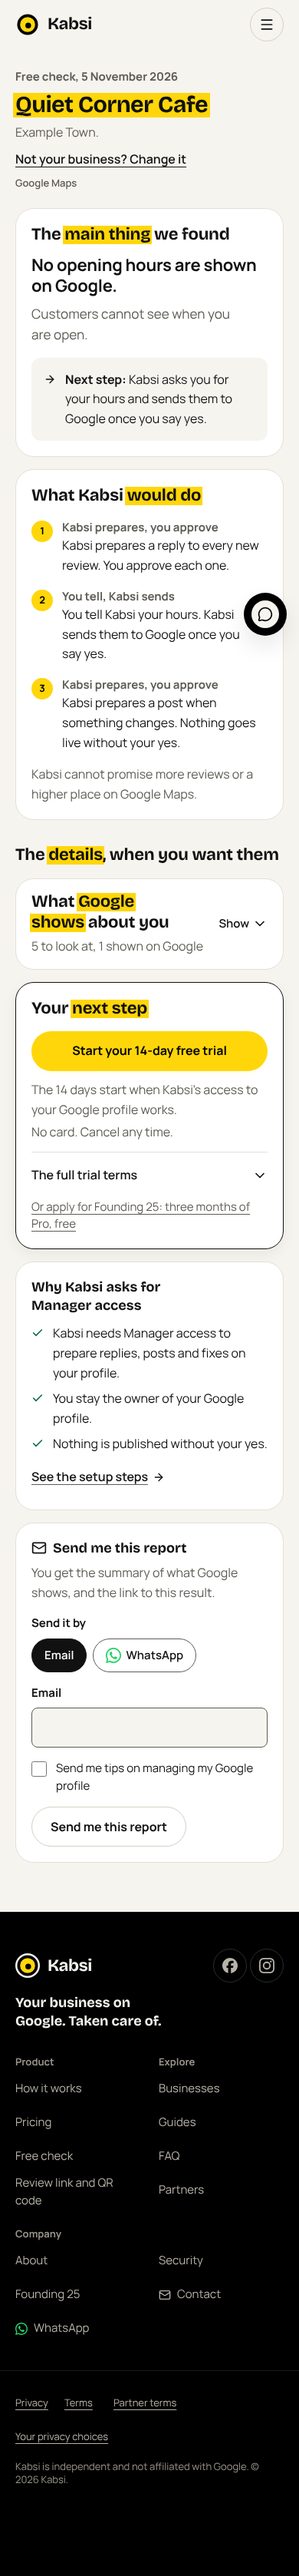
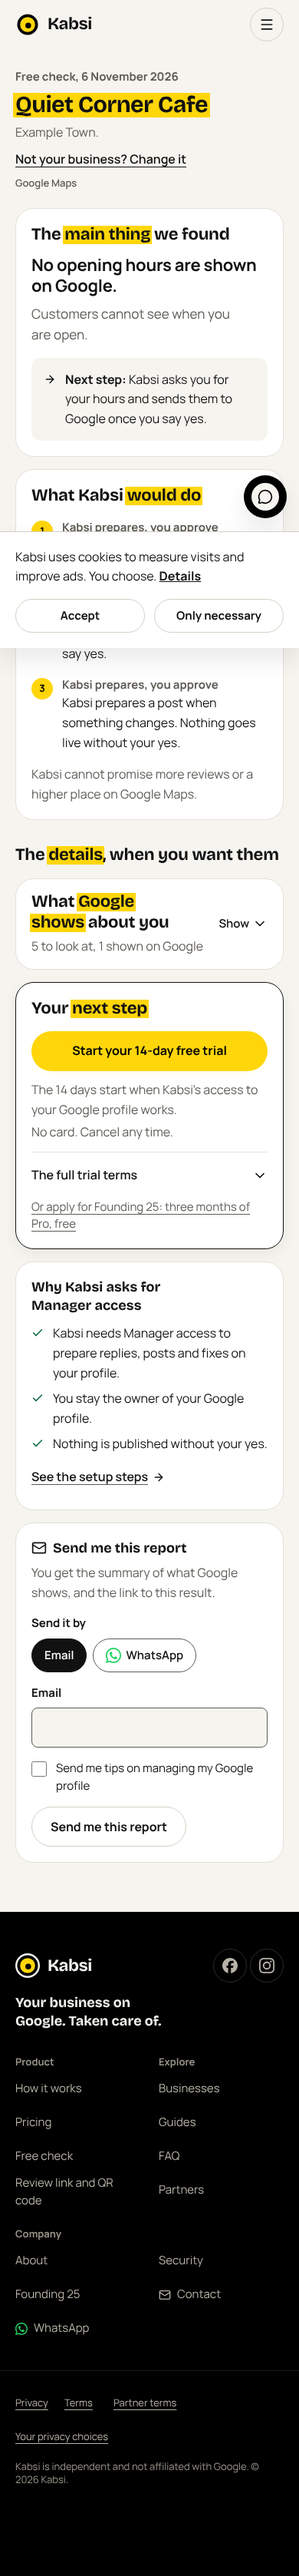
Speed 2 part A: the route signs in as its own Postgres role (suggest_route, runs suggest_take only) instead of an anon-callable function; narrower gitleaks match
rls_functions.sql holds that anon runs no SECURITY DEFINER function in public, and Sec 1 holds that no service key is on
the website's server; a login role that can run one function meets both.

Claude-Session: https://claude.ai/code/session_01WpE3ai1j4jdXti8Rm15RSC

Changed region(s): [[0.0923, 0.186, 0.9538, 0.248], [0.0308, 0.217, 0.0615, 0.248]]

diff --git a/src/server/suggest-deps.ts b/src/server/suggest-deps.ts
@@ -1,11 +1,13 @@
 // The production wiring of POST /api/suggest (src/server/suggest.ts): the database, Google, Turnstile and the two caches.
 // Server only (src/server is never bundled for the browser). The three secrets are read from Vercel's environment at
-// call time and never logged: PLACES_API_KEY, TURNSTILE_SECRET_KEY and SUGGEST_ROUTE_KEY (the key the database made for
-// this route, which opens public.suggest_take only; no service key is ever on Vercel).
+// call time and never logged: PLACES_API_KEY, TURNSTILE_SECRET_KEY and SUGGEST_DB_URL (Supabase's transaction pooler,
+// signed in as the role suggest_route, whose password the database made and keeps in Vault; the role can run
+// public.suggest_take only, and no service key is ever on Vercel).
 import { createHash } from "node:crypto";
 import { getCache } from "@vercel/functions";
 import { autocompleteWeb } from "../../supabase/functions/_shared/google/places/autocomplete-web.ts";
-import { supabasePublishableKey, supabaseUrl } from "../lib/supabase-config";
+import postgres from "postgres";
+import { supabaseUrl } from "../lib/supabase-config";
 import { CACHE_SECONDS, type Cached, type SuggestDeps, type Take } from "./suggest";
 
 const env = (name: string) => {
@@ -13,34 +15,35 @@ const env = (name: string) => {
   return v && v.trim() ? v.trim() : undefined;
 };
 
+// One small pool per instance, made on first use. Supabase's transaction pooler (port 6543) takes no prepared
+// statements, so prepare is off. The role can run public.suggest_take and nothing else.
+let pool: postgres.Sql | null = null;
+function db(): postgres.Sql | null {
+  const url = env("SUGGEST_DB_URL");
+  if (!url) return null;
+  pool ??= postgres(url, {
+    prepare: false,
+    max: 4,
+    idle_timeout: 30,
+    connect_timeout: 3,
+    ssl: "require",
+    // Nothing from the connection (its address or role) is logged by the driver.
+    onnotice: () => undefined,
+  });
+  return pool;
+}
+
 async function take(
   visitor: string,
   limits: [number | null, number | null, number | null],
   places: boolean,
 ): Promise<Take> {
-  const routeKey = env("SUGGEST_ROUTE_KEY");
-  if (!routeKey) return { allowed: false, reason: "error" };
-  // The public key gets the call to PostgREST; the route key inside the body is what lets it through.
-  const headers: Record<string, string> = {
-    "content-type": "application/json",
-    apikey: supabasePublishableKey,
-  };
+  const sql = db();
+  if (!sql) return { allowed: false, reason: "error" };
   try {
-    const res = await fetch(`${supabaseUrl}/rest/v1/rpc/suggest_take`, {
-      method: "POST",
-      headers,
-      body: JSON.stringify({
-        p_key: routeKey,
-        p_visitor: visitor,
-        p_per_minute: limits[0],
-        p_per_hour: limits[1],
-        p_per_day: limits[2],
-        p_places: places,
-      }),
-      signal: AbortSignal.timeout(3000),
-    });
-    if (!res.ok) return { allowed: false, reason: "error" };
-    const j = (await res.json()) as { allowed?: unknown; reason?: unknown };
+    const rows = await sql<{ r: { allowed?: unknown; reason?: unknown } }[]>`
+      select public.suggest_take(${visitor}, ${limits[0]}::integer, ${limits[1]}::integer, ${limits[2]}::integer, ${places}) as r`;
+    const j = rows[0]?.r ?? {};
     if (j.allowed === true) return { allowed: true };
     return {
       allowed: false,

diff --git a/src/server/suggest.ts b/src/server/suggest.ts
@@ -12,9 +12,9 @@
 // - the bot check: a Turnstile token once, then the same signed 15 minute pass (same format, same secret, same visitor
 //   hash, so a pass from either path is good on the other);
 // - the per-visitor limits (20 a minute, 120 an hour, 60 a day) and places_take('autocomplete') against the same daily
-//   cap, in one database round trip: public.suggest_take, reached with the public key and this route's own key (Vercel
-//   env SUGGEST_ROUTE_KEY, made by the database and kept in Vault), which opens that one function only. The route
-//   holds no service key (Sec 1).
+//   cap, in one database round trip: public.suggest_take, run over Supabase's pooler as the role suggest_route, which
+//   can run that one function and nothing else (Vercel env SUGGEST_DB_URL; its password was made by the database and
+//   is kept in Vault). The route holds no service key (Sec 1).
 // The database call and the Google call run at the same time only for a visitor this instance saw allowed in the last
 // 30 seconds with none of their calls in flight (the typing session's later letters); Google's answer is then dropped
 // if the database refuses. Every other call asks the database first, so a burst, a fresh instance or a day at the cap
@@ -46,7 +46,7 @@ export type Cached = { key: string; suggestions: Suggestion[] };
 
 export type SuggestDeps = {
   env: (name: string) => string | undefined;
-  /** public.suggest_take with the route key. Fails closed: an error is { allowed: false, reason: "error" }. */
+  /** public.suggest_take as the role suggest_route. Fails closed: an error is { allowed: false, reason: "error" }. */
   take: (
     visitor: string,
     limits: [number | null, number | null, number | null],
@@ -185,7 +185,7 @@ export function makeSuggestHandler(d: SuggestDeps) {
 
     const placesKey = d.env("PLACES_API_KEY");
     const secret = d.env("TURNSTILE_SECRET_KEY");
-    const configured = !!placesKey && !!secret && !!d.env("SUGGEST_ROUTE_KEY");
+    const configured = !!placesKey && !!secret && !!d.env("SUGGEST_DB_URL");
     // The box's first touch wakes this function; it also tells the page whether to use this route at all.
     if (action === "warm") return reply({ ok: true, configured }, 200, { outcome: "warm" });
     // Until the three server values are set on Vercel, the page keeps using profile-snapshot (it reads this answer).

diff --git a/tests/speed2-suggest.test.ts b/tests/speed2-suggest.test.ts
@@ -59,7 +59,7 @@ function rig(
   const env: Record<string, string> = {
     PLACES_API_KEY: "places-key",
     TURNSTILE_SECRET_KEY: SECRET,
-    SUGGEST_ROUTE_KEY: "a".repeat(64),
+    SUGGEST_DB_URL: "postgres://suggest_route.test:x@localhost:6543/postgres",
     ...opts.env,
   };
   r.deps = {
@@ -268,7 +268,7 @@ describe("Speed 2 part A: /api/suggest", () => {
     expect((await h(new Request("https://kabsi.co/api/suggest"))).status).toBe(405);
     expect((await h(post({ action: "nope" }))).status).toBe(400);
     expect(r.google).toEqual([]);
-    const off = rig({ env: { SUGGEST_ROUTE_KEY: "" } });
+    const off = rig({ env: { SUGGEST_DB_URL: "" } });
     const res = await makeSuggestHandler(off.deps)(suggest());
     expect(res.status).toBe(503);
     expect(((await res.json()) as { error: string }).error).toBe("not_configured");
@@ -296,8 +296,8 @@ describe("Speed 2 part A: /api/suggest", () => {
 
   it("the route holds no service key and the Google address stays in the Google layer", () => {
     const deps = readFileSync("src/server/suggest-deps.ts", "utf8");
-    expect(deps).toContain("SUGGEST_ROUTE_KEY");
-    expect(deps).toContain("supabasePublishableKey");
+    expect(deps).toContain("SUGGEST_DB_URL");
+    expect(deps).toContain("suggest_take");
     expect(deps).not.toMatch(/googleapis/);
     expect(
       readFileSync("supabase/functions/_shared/google/places/autocomplete-web.ts", "utf8"),
